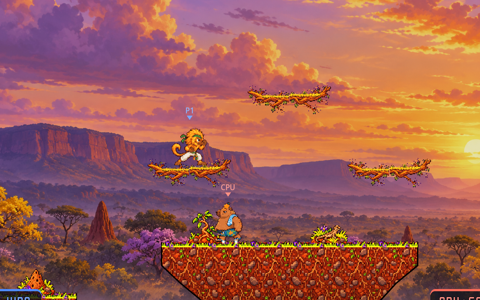
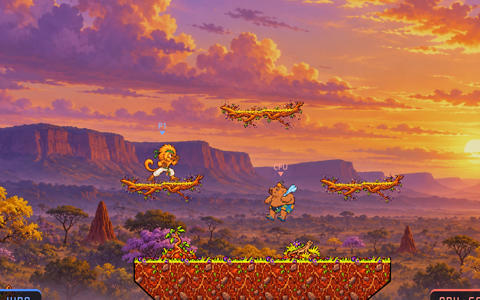
Fix: fighters ride moving platforms during hitstop (fell off lily pads while attacking); grounded attacks stop at edges; hit spark stays next to the victim (castanha); island fill tile trimmed so it repeats without seams; platforms_smoke test

diff --git a/game/tools/importar_arena.py b/game/tools/importar_arena.py
@@ -114,6 +114,35 @@ def sit_on_floor(tile):
     return out
 
 
+def seamless_core(tile):
+    """Miolo para repetir dentro da ilha: corta as linhas e colunas das beiradas
+    que fogem do tom do resto (contorno, sombra, buraco transparente). Repetidas,
+    elas viram uma faixa atravessando a ilha."""
+    px = tile.load()
+    w, h = tile.size
+
+    def tone(cells):
+        vals = [sum(px[x, y][:3]) if px[x, y][3] > 0 else -999 for x, y in cells]
+        return sum(vals) / len(vals), min(vals)
+
+    rows = [tone([(x, y) for x in range(w)]) for y in range(h)]
+    cols = [tone([(x, y) for y in range(h)]) for x in range(w)]
+
+    def trim(lines):
+        mid = sorted(t for t, _ in lines)[len(lines) // 2]
+        bad = lambda t, lo: lo < -1 or abs(t - mid) > mid * 0.12
+        a, b = 0, len(lines)
+        while a < 8 and bad(*lines[a]):
+            a += 1
+        while len(lines) - b < 8 and bad(*lines[b - 1]):
+            b -= 1
+        return a, b
+
+    y0, y1 = trim(rows)
+    x0, x1 = trim(cols)
+    return tile.crop((x0, y0, x1, y1))
+
+
 def outline_color(tile):
     """Cor mais escura do bloco do canto (o contorno), em hexadecimal."""
     px = [p for p in tile.getdata() if p[3] > 0]
@@ -170,7 +199,7 @@ def main():
                 blocks.paste(t, (k * NATIVE, 0))
         blocks.save(os.path.join(dst, "blocos.png"))
         # Miolo do terreno à parte: o jogo repete ele dentro da ilha afinando para baixo.
-        blocks.crop((4 * NATIVE, 0, 5 * NATIVE, NATIVE)).save(os.path.join(dst, "miolo.png"))
+        seamless_core(blocks.crop((4 * NATIVE, 0, 5 * NATIVE, NATIVE))).save(os.path.join(dst, "miolo.png"))
         meta["contorno"] = outline_color(blocks.crop((0, 0, NATIVE, NATIVE)))
         meta["superficie_blocos"] = surface_row(blocks.crop((NATIVE, 0, 2 * NATIVE, NATIVE)))
         meta["versao"] = 2
